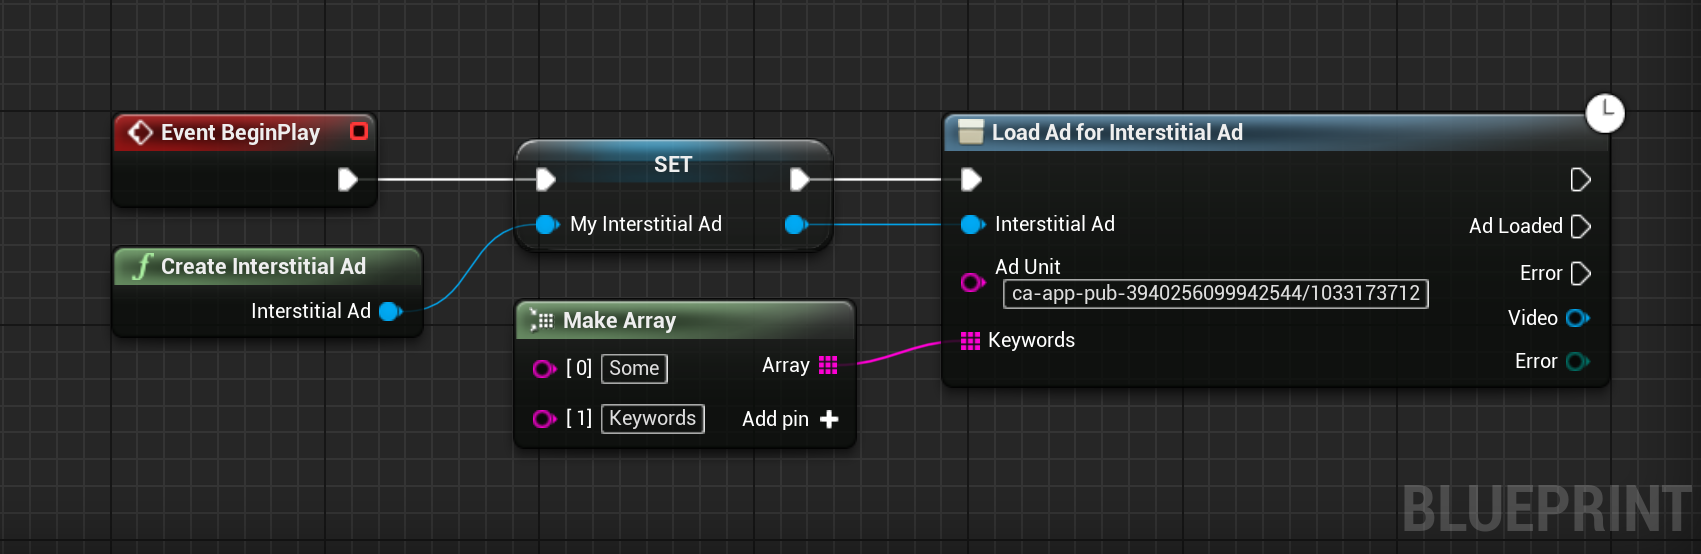
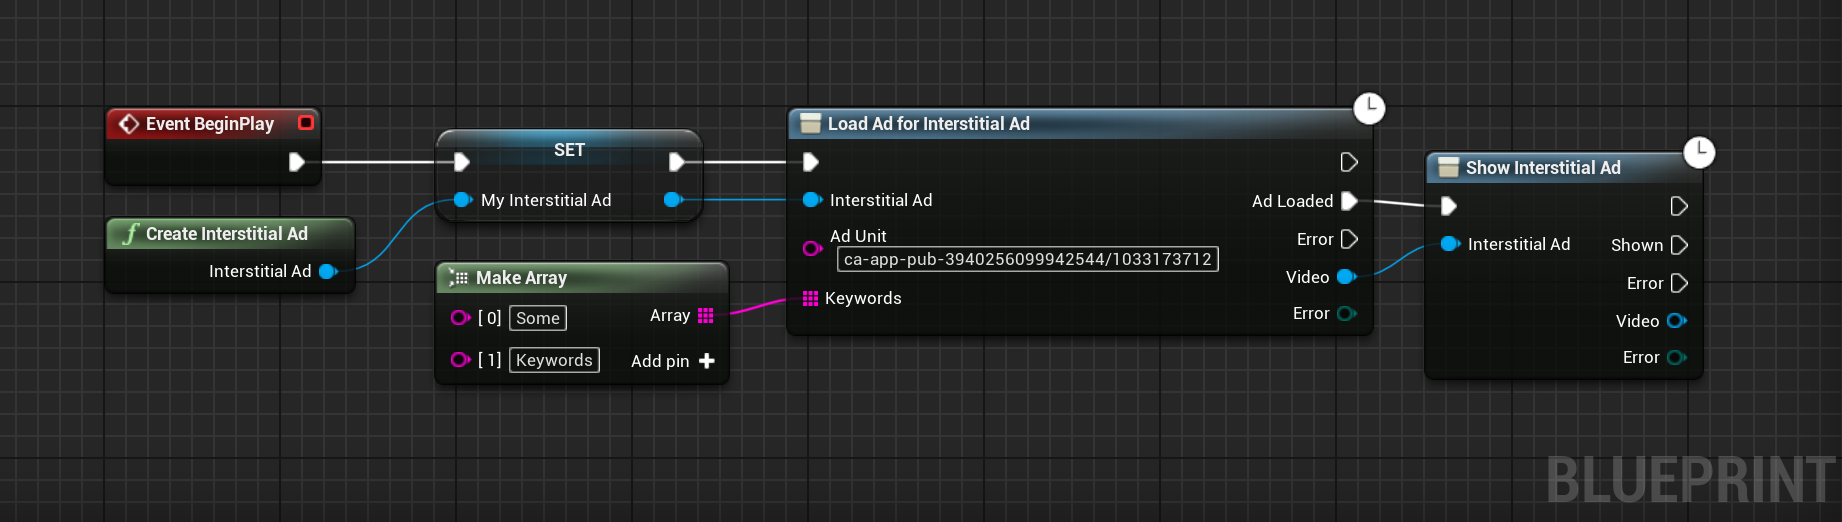
Upload Images

Changed region(s): [[0.0312, 0.1533, 0.9659, 0.8276], [0.0, 0.8582, 0.9971, 0.9808], [0.0312, 0.5211, 0.0623, 0.5517]]

diff --git a/blueprintinterstitialad.md b/blueprintinterstitialad.md
@@ -109,6 +109,88 @@ End Object
 !> If you plan to show an Interstitial Ad during a precise time as for level transition, you should load the ad *before* so the ad
 is ready when you want to show it.
 
+## Showing the Interstitial Ad
+To show the Interstitial Ad, simply use the `Show Interstitial Ad` node.
+<div class="bpcode">
+<textarea readonly>
+Begin Object Class=/Script/BlueprintGraph.K2Node_CallFunction Name="K2Node_CallFunction_5"
+   bIsPureFunc=True
+   FunctionReference=(MemberParent=Class'"/Script/AdsPro.AdMobBlueprintLibrary"',MemberName="CreateAdMobInterstitialAd")
+   NodePosX=-1408
+   NodePosY=-2736
+   NodeGuid=4E6ED29040D43656554EA088687F7BAE
+   CustomProperties Pin (PinId=27589A7E4E405ECBCEB3E4BE7711D9CC,PinName="self",PinFriendlyName=NSLOCTEXT("K2Node", "Target", "Target"),PinType.PinCategory="object",PinType.PinSubCategory="",PinType.PinSubCategoryObject=Class'"/Script/AdsPro.AdMobBlueprintLibrary"',PinType.PinSubCategoryMemberReference=(),PinType.PinValueType=(),PinType.ContainerType=None,PinType.bIsReference=False,PinType.bIsConst=False,PinType.bIsWeakPointer=False,PinType.bIsUObjectWrapper=False,DefaultObject="/Script/AdsPro.Default__AdMobBlueprintLibrary",PersistentGuid=00000000000000000000000000000000,bHidden=True,bNotConnectable=False,bDefaultValueIsReadOnly=False,bDefaultValueIsIgnored=False,bAdvancedView=False,bOrphanedPin=False,)
+   CustomProperties Pin (PinId=0319E0F74B8744243DFB04B36EEEC644,PinName="ReturnValue",PinFriendlyName=NSLOCTEXT("", "678AB0EC4DF9CD38E8607E9D6D214BE8", "Interstitial Ad"),Direction="EGPD_Output",PinType.PinCategory="object",PinType.PinSubCategory="",PinType.PinSubCategoryObject=Class'"/Script/AdsPro.AdMobInterstitialAd"',PinType.PinSubCategoryMemberReference=(),PinType.PinValueType=(),PinType.ContainerType=None,PinType.bIsReference=False,PinType.bIsConst=False,PinType.bIsWeakPointer=False,PinType.bIsUObjectWrapper=False,LinkedTo=(K2Node_VariableSet_0 BF81338A4C1285CE83739DBBE88D36F9,),PersistentGuid=00000000000000000000000000000000,bHidden=False,bNotConnectable=False,bDefaultValueIsReadOnly=False,bDefaultValueIsIgnored=False,bAdvancedView=False,bOrphanedPin=False,)
+End Object
+Begin Object Class=/Script/BlueprintGraph.K2Node_VariableSet Name="K2Node_VariableSet_0"
+   VariableReference=(MemberName="MyInterstitialAd",MemberGuid=236A76F94684741128F730BCB690B5D6,bSelfContext=True)
+   NodePosX=-1168
+   NodePosY=-2800
+   NodeGuid=1F2821674E7F2AF911FED4A0345789EE
+   CustomProperties Pin (PinId=A8B39A504D8E1BE2DAACE5A814D70466,PinName="execute",PinType.PinCategory="exec",PinType.PinSubCategory="",PinType.PinSubCategoryObject=None,PinType.PinSubCategoryMemberReference=(),PinType.PinValueType=(),PinType.ContainerType=None,PinType.bIsReference=False,PinType.bIsConst=False,PinType.bIsWeakPointer=False,PinType.bIsUObjectWrapper=False,LinkedTo=(K2Node_Event_0 118586BB4EA9470F8087FD820D560415,),PersistentGuid=00000000000000000000000000000000,bHidden=False,bNotConnectable=False,bDefaultValueIsReadOnly=False,bDefaultValueIsIgnored=False,bAdvancedView=False,bOrphanedPin=False,)
+   CustomProperties Pin (PinId=C711CC28422D8676A8737C8FE5ECC6DC,PinName="then",Direction="EGPD_Output",PinType.PinCategory="exec",PinType.PinSubCategory="",PinType.PinSubCategoryObject=None,PinType.PinSubCategoryMemberReference=(),PinType.PinValueType=(),PinType.ContainerType=None,PinType.bIsReference=False,PinType.bIsConst=False,PinType.bIsWeakPointer=False,PinType.bIsUObjectWrapper=False,LinkedTo=(K2Node_AsyncAction_8 6A4B9FA8435F329BF42F71864C985A03,),PersistentGuid=00000000000000000000000000000000,bHidden=False,bNotConnectable=False,bDefaultValueIsReadOnly=False,bDefaultValueIsIgnored=False,bAdvancedView=False,bOrphanedPin=False,)
+   CustomProperties Pin (PinId=BF81338A4C1285CE83739DBBE88D36F9,PinName="MyInterstitialAd",PinType.PinCategory="object",PinType.PinSubCategory="",PinType.PinSubCategoryObject=Class'"/Script/AdsPro.AdMobInterstitialAd"',PinType.PinSubCategoryMemberReference=(),PinType.PinValueType=(),PinType.ContainerType=None,PinType.bIsReference=False,PinType.bIsConst=False,PinType.bIsWeakPointer=False,PinType.bIsUObjectWrapper=False,LinkedTo=(K2Node_CallFunction_5 0319E0F74B8744243DFB04B36EEEC644,),PersistentGuid=00000000000000000000000000000000,bHidden=False,bNotConnectable=False,bDefaultValueIsReadOnly=False,bDefaultValueIsIgnored=False,bAdvancedView=False,bOrphanedPin=False,)
+   CustomProperties Pin (PinId=B10CCF1C494C044F2707A39D5E5B3C90,PinName="Output_Get",PinToolTip="Retrieves the value of the variable, can use instead of a separate Get node",Direction="EGPD_Output",PinType.PinCategory="object",PinType.PinSubCategory="",PinType.PinSubCategoryObject=Class'"/Script/AdsPro.AdMobInterstitialAd"',PinType.PinSubCategoryMemberReference=(),PinType.PinValueType=(),PinType.ContainerType=None,PinType.bIsReference=False,PinType.bIsConst=False,PinType.bIsWeakPointer=False,PinType.bIsUObjectWrapper=False,LinkedTo=(K2Node_AsyncAction_8 EA61EE4F4FB4E4C0C73779BCDBCA2CB5,),PersistentGuid=00000000000000000000000000000000,bHidden=False,bNotConnectable=False,bDefaultValueIsReadOnly=False,bDefaultValueIsIgnored=False,bAdvancedView=False,bOrphanedPin=False,)
+   CustomProperties Pin (PinId=9F23BE054561E783CDFFA5B282B87E4A,PinName="self",PinFriendlyName=NSLOCTEXT("K2Node", "Target", "Target"),PinType.PinCategory="object",PinType.PinSubCategory="",PinType.PinSubCategoryObject=BlueprintGeneratedClass'"/Game/DemoActor.DemoActor_C"',PinType.PinSubCategoryMemberReference=(),PinType.PinValueType=(),PinType.ContainerType=None,PinType.bIsReference=False,PinType.bIsConst=False,PinType.bIsWeakPointer=False,PinType.bIsUObjectWrapper=False,PersistentGuid=00000000000000000000000000000000,bHidden=True,bNotConnectable=False,bDefaultValueIsReadOnly=False,bDefaultValueIsIgnored=False,bAdvancedView=False,bOrphanedPin=False,)
+End Object
+Begin Object Class=/Script/BlueprintGraph.K2Node_Event Name="K2Node_Event_0"
+   EventReference=(MemberParent=Class'"/Script/Engine.Actor"',MemberName="ReceiveBeginPlay")
+   bOverrideFunction=True
+   NodePosX=-1408
+   NodePosY=-2816
+   NodeGuid=C6D553414CAF879F5B6BAC8D1434AC60
+   CustomProperties Pin (PinId=6148E00247D433F976646085B91B91C2,PinName="OutputDelegate",Direction="EGPD_Output",PinType.PinCategory="delegate",PinType.PinSubCategory="",PinType.PinSubCategoryObject=None,PinType.PinSubCategoryMemberReference=(MemberParent=Class'"/Script/Engine.Actor"',MemberName="ReceiveBeginPlay"),PinType.PinValueType=(),PinType.ContainerType=None,PinType.bIsReference=False,PinType.bIsConst=False,PinType.bIsWeakPointer=False,PinType.bIsUObjectWrapper=False,PersistentGuid=00000000000000000000000000000000,bHidden=False,bNotConnectable=False,bDefaultValueIsReadOnly=False,bDefaultValueIsIgnored=False,bAdvancedView=False,bOrphanedPin=False,)
+   CustomProperties Pin (PinId=118586BB4EA9470F8087FD820D560415,PinName="then",Direction="EGPD_Output",PinType.PinCategory="exec",PinType.PinSubCategory="",PinType.PinSubCategoryObject=None,PinType.PinSubCategoryMemberReference=(),PinType.PinValueType=(),PinType.ContainerType=None,PinType.bIsReference=False,PinType.bIsConst=False,PinType.bIsWeakPointer=False,PinType.bIsUObjectWrapper=False,LinkedTo=(K2Node_VariableSet_0 A8B39A504D8E1BE2DAACE5A814D70466,),PersistentGuid=00000000000000000000000000000000,bHidden=False,bNotConnectable=False,bDefaultValueIsReadOnly=False,bDefaultValueIsIgnored=False,bAdvancedView=False,bOrphanedPin=False,)
+End Object
+Begin Object Class=/Script/BlueprintGraph.K2Node_AsyncAction Name="K2Node_AsyncAction_8"
+   ProxyFactoryFunctionName="LoadAdInterstitialAd"
+   ProxyFactoryClass=Class'"/Script/AdsPro.AdMobLoadAdInterstitialAd"'
+   ProxyClass=Class'"/Script/AdsPro.AdMobLoadAdInterstitialAd"'
+   NodePosX=-912
+   NodePosY=-2816
+   ErrorType=1
+   ErrorMsg="The current value of the \' Keywords \' pin is invalid: Array inputs (like \'Keywords\') must have an input wired into them (try connecting a MakeArray node)."
+   NodeGuid=992369CE448807351FE4BEACBAEA94B3
+   CustomProperties Pin (PinId=6A4B9FA8435F329BF42F71864C985A03,PinName="execute",PinToolTip="\nExec",PinType.PinCategory="exec",PinType.PinSubCategory="",PinType.PinSubCategoryObject=None,PinType.PinSubCategoryMemberReference=(),PinType.PinValueType=(),PinType.ContainerType=None,PinType.bIsReference=False,PinType.bIsConst=False,PinType.bIsWeakPointer=False,PinType.bIsUObjectWrapper=True,LinkedTo=(K2Node_VariableSet_0 C711CC28422D8676A8737C8FE5ECC6DC,),PersistentGuid=00000000000000000000000000000000,bHidden=False,bNotConnectable=False,bDefaultValueIsReadOnly=False,bDefaultValueIsIgnored=False,bAdvancedView=False,bOrphanedPin=False,)
+   CustomProperties Pin (PinId=CC3ED8AD4B83485EBFE43FB971769240,PinName="then",Direction="EGPD_Output",PinType.PinCategory="exec",PinType.PinSubCategory="",PinType.PinSubCategoryObject=None,PinType.PinSubCategoryMemberReference=(),PinType.PinValueType=(),PinType.ContainerType=None,PinType.bIsReference=False,PinType.bIsConst=False,PinType.bIsWeakPointer=False,PinType.bIsUObjectWrapper=True,PersistentGuid=00000000000000000000000000000000,bHidden=False,bNotConnectable=False,bDefaultValueIsReadOnly=False,bDefaultValueIsIgnored=False,bAdvancedView=False,bOrphanedPin=False,)
+   CustomProperties Pin (PinId=FC8139454C4C712A63641AB72D799259,PinName="AdLoaded",PinFriendlyName=NSLOCTEXT("", "DAC632894A87F14B382550811EEDE2A1", "Ad Loaded"),PinToolTip="The ad has been loaded.",Direction="EGPD_Output",PinType.PinCategory="exec",PinType.PinSubCategory="",PinType.PinSubCategoryObject=None,PinType.PinSubCategoryMemberReference=(),PinType.PinValueType=(),PinType.ContainerType=None,PinType.bIsReference=False,PinType.bIsConst=False,PinType.bIsWeakPointer=False,PinType.bIsUObjectWrapper=True,LinkedTo=(K2Node_AsyncAction_9 540FF9304CEACF898ECBD1A73B1EDB61,),PersistentGuid=00000000000000000000000000000000,bHidden=False,bNotConnectable=False,bDefaultValueIsReadOnly=False,bDefaultValueIsIgnored=False,bAdvancedView=False,bOrphanedPin=False,)
+   CustomProperties Pin (PinId=91C3AB1B458009880D11F1815C5D157B,PinName="Error",PinFriendlyName=NSLOCTEXT("", "F4FB940B42C83A8A6623E09DDF436D85", "Error"),PinToolTip="An error occured during the ad loading.",Direction="EGPD_Output",PinType.PinCategory="exec",PinType.PinSubCategory="",PinType.PinSubCategoryObject=None,PinType.PinSubCategoryMemberReference=(),PinType.PinValueType=(),PinType.ContainerType=None,PinType.bIsReference=False,PinType.bIsConst=False,PinType.bIsWeakPointer=False,PinType.bIsUObjectWrapper=True,PersistentGuid=00000000000000000000000000000000,bHidden=False,bNotConnectable=False,bDefaultValueIsReadOnly=False,bDefaultValueIsIgnored=False,bAdvancedView=False,bOrphanedPin=False,)
+   CustomProperties Pin (PinId=AFEE345643B4F104945F559F31731CB7,PinName="Video",PinToolTip="Video",Direction="EGPD_Output",PinType.PinCategory="object",PinType.PinSubCategory="",PinType.PinSubCategoryObject=Class'"/Script/AdsPro.AdMobInterstitialAd"',PinType.PinSubCategoryMemberReference=(),PinType.PinValueType=(),PinType.ContainerType=None,PinType.bIsReference=False,PinType.bIsConst=False,PinType.bIsWeakPointer=False,PinType.bIsUObjectWrapper=False,LinkedTo=(K2Node_AsyncAction_9 7C976D224D029D6C5B6AF1B79516F786,),PersistentGuid=00000000000000000000000000000000,bHidden=False,bNotConnectable=False,bDefaultValueIsReadOnly=False,bDefaultValueIsIgnored=False,bAdvancedView=False,bOrphanedPin=False,)
+   CustomProperties Pin (PinId=FAC36F5741346F084D627BAE55CFEAA4,PinName="Error",PinToolTip="Error",Direction="EGPD_Output",PinType.PinCategory="byte",PinType.PinSubCategory="",PinType.PinSubCategoryObject=Enum'"/Script/AdsPro.EAdMobError"',PinType.PinSubCategoryMemberReference=(),PinType.PinValueType=(),PinType.ContainerType=None,PinType.bIsReference=False,PinType.bIsConst=False,PinType.bIsWeakPointer=False,PinType.bIsUObjectWrapper=False,PersistentGuid=00000000000000000000000000000000,bHidden=False,bNotConnectable=False,bDefaultValueIsReadOnly=False,bDefaultValueIsIgnored=False,bAdvancedView=False,bOrphanedPin=False,)
+   CustomProperties Pin (PinId=EA61EE4F4FB4E4C0C73779BCDBCA2CB5,PinName="InterstitialAd",PinToolTip="Interstitial Ad\nAd Mob Interstitial Ad Object Reference",PinType.PinCategory="object",PinType.PinSubCategory="",PinType.PinSubCategoryObject=Class'"/Script/AdsPro.AdMobInterstitialAd"',PinType.PinSubCategoryMemberReference=(),PinType.PinValueType=(),PinType.ContainerType=None,PinType.bIsReference=False,PinType.bIsConst=False,PinType.bIsWeakPointer=False,PinType.bIsUObjectWrapper=False,LinkedTo=(K2Node_VariableSet_0 B10CCF1C494C044F2707A39D5E5B3C90,),PersistentGuid=00000000000000000000000000000000,bHidden=False,bNotConnectable=False,bDefaultValueIsReadOnly=False,bDefaultValueIsIgnored=False,bAdvancedView=False,bOrphanedPin=False,)
+   CustomProperties Pin (PinId=1E85241849EB80ADE095C4A37DD13638,PinName="AdUnit",PinToolTip="Ad Unit\nString\n\nThe ad unit to use.",PinType.PinCategory="string",PinType.PinSubCategory="",PinType.PinSubCategoryObject=None,PinType.PinSubCategoryMemberReference=(),PinType.PinValueType=(),PinType.ContainerType=None,PinType.bIsReference=False,PinType.bIsConst=False,PinType.bIsWeakPointer=False,PinType.bIsUObjectWrapper=False,DefaultValue="ca-app-pub-3940256099942544/1033173712",PersistentGuid=00000000000000000000000000000000,bHidden=False,bNotConnectable=False,bDefaultValueIsReadOnly=False,bDefaultValueIsIgnored=False,bAdvancedView=False,bOrphanedPin=False,)
+   CustomProperties Pin (PinId=326FEBD740F84EE919BBF7883624A13D,PinName="Keywords",PinToolTip="Keywords\nArray of Strings\n\nThe keywords for the ad request.",PinType.PinCategory="string",PinType.PinSubCategory="",PinType.PinSubCategoryObject=None,PinType.PinSubCategoryMemberReference=(),PinType.PinValueType=(),PinType.ContainerType=Array,PinType.bIsReference=True,PinType.bIsConst=True,PinType.bIsWeakPointer=False,PinType.bIsUObjectWrapper=False,LinkedTo=(K2Node_MakeArray_2 A5A092FE4EBE83CEB2CB66A690E12FD1,),PersistentGuid=00000000000000000000000000000000,bHidden=False,bNotConnectable=False,bDefaultValueIsReadOnly=False,bDefaultValueIsIgnored=True,bAdvancedView=False,bOrphanedPin=False,)
+End Object
+Begin Object Class=/Script/BlueprintGraph.K2Node_MakeArray Name="K2Node_MakeArray_2"
+   NumInputs=2
+   NodePosX=-1168
+   NodePosY=-2704
+   NodeGuid=3345664A46D1FD95C969B4821AA4E886
+   CustomProperties Pin (PinId=A5A092FE4EBE83CEB2CB66A690E12FD1,PinName="Array",Direction="EGPD_Output",PinType.PinCategory="string",PinType.PinSubCategory="",PinType.PinSubCategoryObject=None,PinType.PinSubCategoryMemberReference=(),PinType.PinValueType=(),PinType.ContainerType=Array,PinType.bIsReference=True,PinType.bIsConst=True,PinType.bIsWeakPointer=False,PinType.bIsUObjectWrapper=False,LinkedTo=(K2Node_AsyncAction_8 326FEBD740F84EE919BBF7883624A13D,),PersistentGuid=00000000000000000000000000000000,bHidden=False,bNotConnectable=False,bDefaultValueIsReadOnly=False,bDefaultValueIsIgnored=False,bAdvancedView=False,bOrphanedPin=False,)
+   CustomProperties Pin (PinId=29DAA2A34CE42F39D947D4B256D5F625,PinName="[0]",PinType.PinCategory="string",PinType.PinSubCategory="",PinType.PinSubCategoryObject=None,PinType.PinSubCategoryMemberReference=(),PinType.PinValueType=(),PinType.ContainerType=None,PinType.bIsReference=False,PinType.bIsConst=False,PinType.bIsWeakPointer=False,PinType.bIsUObjectWrapper=False,DefaultValue="Some",PersistentGuid=00000000000000000000000000000000,bHidden=False,bNotConnectable=False,bDefaultValueIsReadOnly=False,bDefaultValueIsIgnored=False,bAdvancedView=False,bOrphanedPin=False,)
+   CustomProperties Pin (PinId=05D5559E44A0F5174C9CB6ADCC5EA1BC,PinName="[1]",PinType.PinCategory="string",PinType.PinSubCategory="",PinType.PinSubCategoryObject=None,PinType.PinSubCategoryMemberReference=(),PinType.PinValueType=(),PinType.ContainerType=None,PinType.bIsReference=False,PinType.bIsConst=False,PinType.bIsWeakPointer=False,PinType.bIsUObjectWrapper=False,DefaultValue="Keywords",PersistentGuid=00000000000000000000000000000000,bHidden=False,bNotConnectable=False,bDefaultValueIsReadOnly=False,bDefaultValueIsIgnored=False,bAdvancedView=False,bOrphanedPin=False,)
+End Object
+Begin Object Class=/Script/BlueprintGraph.K2Node_AsyncAction Name="K2Node_AsyncAction_9"
+   ProxyFactoryFunctionName="ShowInterstitialAd"
+   ProxyFactoryClass=Class'"/Script/AdsPro.AdMobShowInterstitialAd"'
+   ProxyClass=Class'"/Script/AdsPro.AdMobShowInterstitialAd"'
+   NodePosX=-448
+   NodePosY=-2784
+   NodeGuid=E95570444E1DC0DE1F8C109CDBB60665
+   CustomProperties Pin (PinId=540FF9304CEACF898ECBD1A73B1EDB61,PinName="execute",PinToolTip="\nExec",PinType.PinCategory="exec",PinType.PinSubCategory="",PinType.PinSubCategoryObject=None,PinType.PinSubCategoryMemberReference=(),PinType.PinValueType=(),PinType.ContainerType=None,PinType.bIsReference=False,PinType.bIsConst=False,PinType.bIsWeakPointer=False,PinType.bIsUObjectWrapper=True,LinkedTo=(K2Node_AsyncAction_8 FC8139454C4C712A63641AB72D799259,),PersistentGuid=00000000000000000000000000000000,bHidden=False,bNotConnectable=False,bDefaultValueIsReadOnly=False,bDefaultValueIsIgnored=False,bAdvancedView=False,bOrphanedPin=False,)
+   CustomProperties Pin (PinId=360467DB4FFDDFC6FC19A2A97ECF4C60,PinName="then",Direction="EGPD_Output",PinType.PinCategory="exec",PinType.PinSubCategory="",PinType.PinSubCategoryObject=None,PinType.PinSubCategoryMemberReference=(),PinType.PinValueType=(),PinType.ContainerType=None,PinType.bIsReference=False,PinType.bIsConst=False,PinType.bIsWeakPointer=False,PinType.bIsUObjectWrapper=True,PersistentGuid=00000000000000000000000000000000,bHidden=False,bNotConnectable=False,bDefaultValueIsReadOnly=False,bDefaultValueIsIgnored=False,bAdvancedView=False,bOrphanedPin=False,)
+   CustomProperties Pin (PinId=3A3963574D289C0F3334F7A406FF9496,PinName="Shown",PinFriendlyName=NSLOCTEXT("", "0237C09C4A4009ECF079E28ABE6EFE35", "Shown"),PinToolTip="The ad has been shown.",Direction="EGPD_Output",PinType.PinCategory="exec",PinType.PinSubCategory="",PinType.PinSubCategoryObject=None,PinType.PinSubCategoryMemberReference=(),PinType.PinValueType=(),PinType.ContainerType=None,PinType.bIsReference=False,PinType.bIsConst=False,PinType.bIsWeakPointer=False,PinType.bIsUObjectWrapper=True,PersistentGuid=00000000000000000000000000000000,bHidden=False,bNotConnectable=False,bDefaultValueIsReadOnly=False,bDefaultValueIsIgnored=False,bAdvancedView=False,bOrphanedPin=False,)
+   CustomProperties Pin (PinId=22FFC8D24257C0FE32A74E82679DEC6D,PinName="Error",PinFriendlyName=NSLOCTEXT("", "164C8B834AFD4979CB1853BF347AF5C0", "Error"),PinToolTip="An error occured.",Direction="EGPD_Output",PinType.PinCategory="exec",PinType.PinSubCategory="",PinType.PinSubCategoryObject=None,PinType.PinSubCategoryMemberReference=(),PinType.PinValueType=(),PinType.ContainerType=None,PinType.bIsReference=False,PinType.bIsConst=False,PinType.bIsWeakPointer=False,PinType.bIsUObjectWrapper=True,PersistentGuid=00000000000000000000000000000000,bHidden=False,bNotConnectable=False,bDefaultValueIsReadOnly=False,bDefaultValueIsIgnored=False,bAdvancedView=False,bOrphanedPin=False,)
+   CustomProperties Pin (PinId=F0B9A49042C67F2A9ACDB4B4E8723380,PinName="Video",PinToolTip="Video",Direction="EGPD_Output",PinType.PinCategory="object",PinType.PinSubCategory="",PinType.PinSubCategoryObject=Class'"/Script/AdsPro.AdMobInterstitialAd"',PinType.PinSubCategoryMemberReference=(),PinType.PinValueType=(),PinType.ContainerType=None,PinType.bIsReference=False,PinType.bIsConst=False,PinType.bIsWeakPointer=False,PinType.bIsUObjectWrapper=False,PersistentGuid=00000000000000000000000000000000,bHidden=False,bNotConnectable=False,bDefaultValueIsReadOnly=False,bDefaultValueIsIgnored=False,bAdvancedView=False,bOrphanedPin=False,)
+   CustomProperties Pin (PinId=BF58771E481958127C7A3DA1F94828E9,PinName="Error",PinToolTip="Error",Direction="EGPD_Output",PinType.PinCategory="byte",PinType.PinSubCategory="",PinType.PinSubCategoryObject=Enum'"/Script/AdsPro.EAdMobError"',PinType.PinSubCategoryMemberReference=(),PinType.PinValueType=(),PinType.ContainerType=None,PinType.bIsReference=False,PinType.bIsConst=False,PinType.bIsWeakPointer=False,PinType.bIsUObjectWrapper=False,PersistentGuid=00000000000000000000000000000000,bHidden=False,bNotConnectable=False,bDefaultValueIsReadOnly=False,bDefaultValueIsIgnored=False,bAdvancedView=False,bOrphanedPin=False,)
+   CustomProperties Pin (PinId=7C976D224D029D6C5B6AF1B79516F786,PinName="InterstitialAd",PinToolTip="Interstitial Ad\nAd Mob Interstitial Ad Object Reference",PinType.PinCategory="object",PinType.PinSubCategory="",PinType.PinSubCategoryObject=Class'"/Script/AdsPro.AdMobInterstitialAd"',PinType.PinSubCategoryMemberReference=(),PinType.PinValueType=(),PinType.ContainerType=None,PinType.bIsReference=False,PinType.bIsConst=False,PinType.bIsWeakPointer=False,PinType.bIsUObjectWrapper=False,LinkedTo=(K2Node_AsyncAction_8 AFEE345643B4F104945F559F31731CB7,),PersistentGuid=00000000000000000000000000000000,bHidden=False,bNotConnectable=False,bDefaultValueIsReadOnly=False,bDefaultValueIsIgnored=False,bAdvancedView=False,bOrphanedPin=False,)
+End Object
+</textarea>
+<img src="https://github.com/Pandoa/AdsPro/blob/main/_images/ShowInterstitialAd.png?raw=true"/>
+<button onclick="copyBlueprintCode(this)">Copy Code</button>
+</div>
+
+
 
 
 
